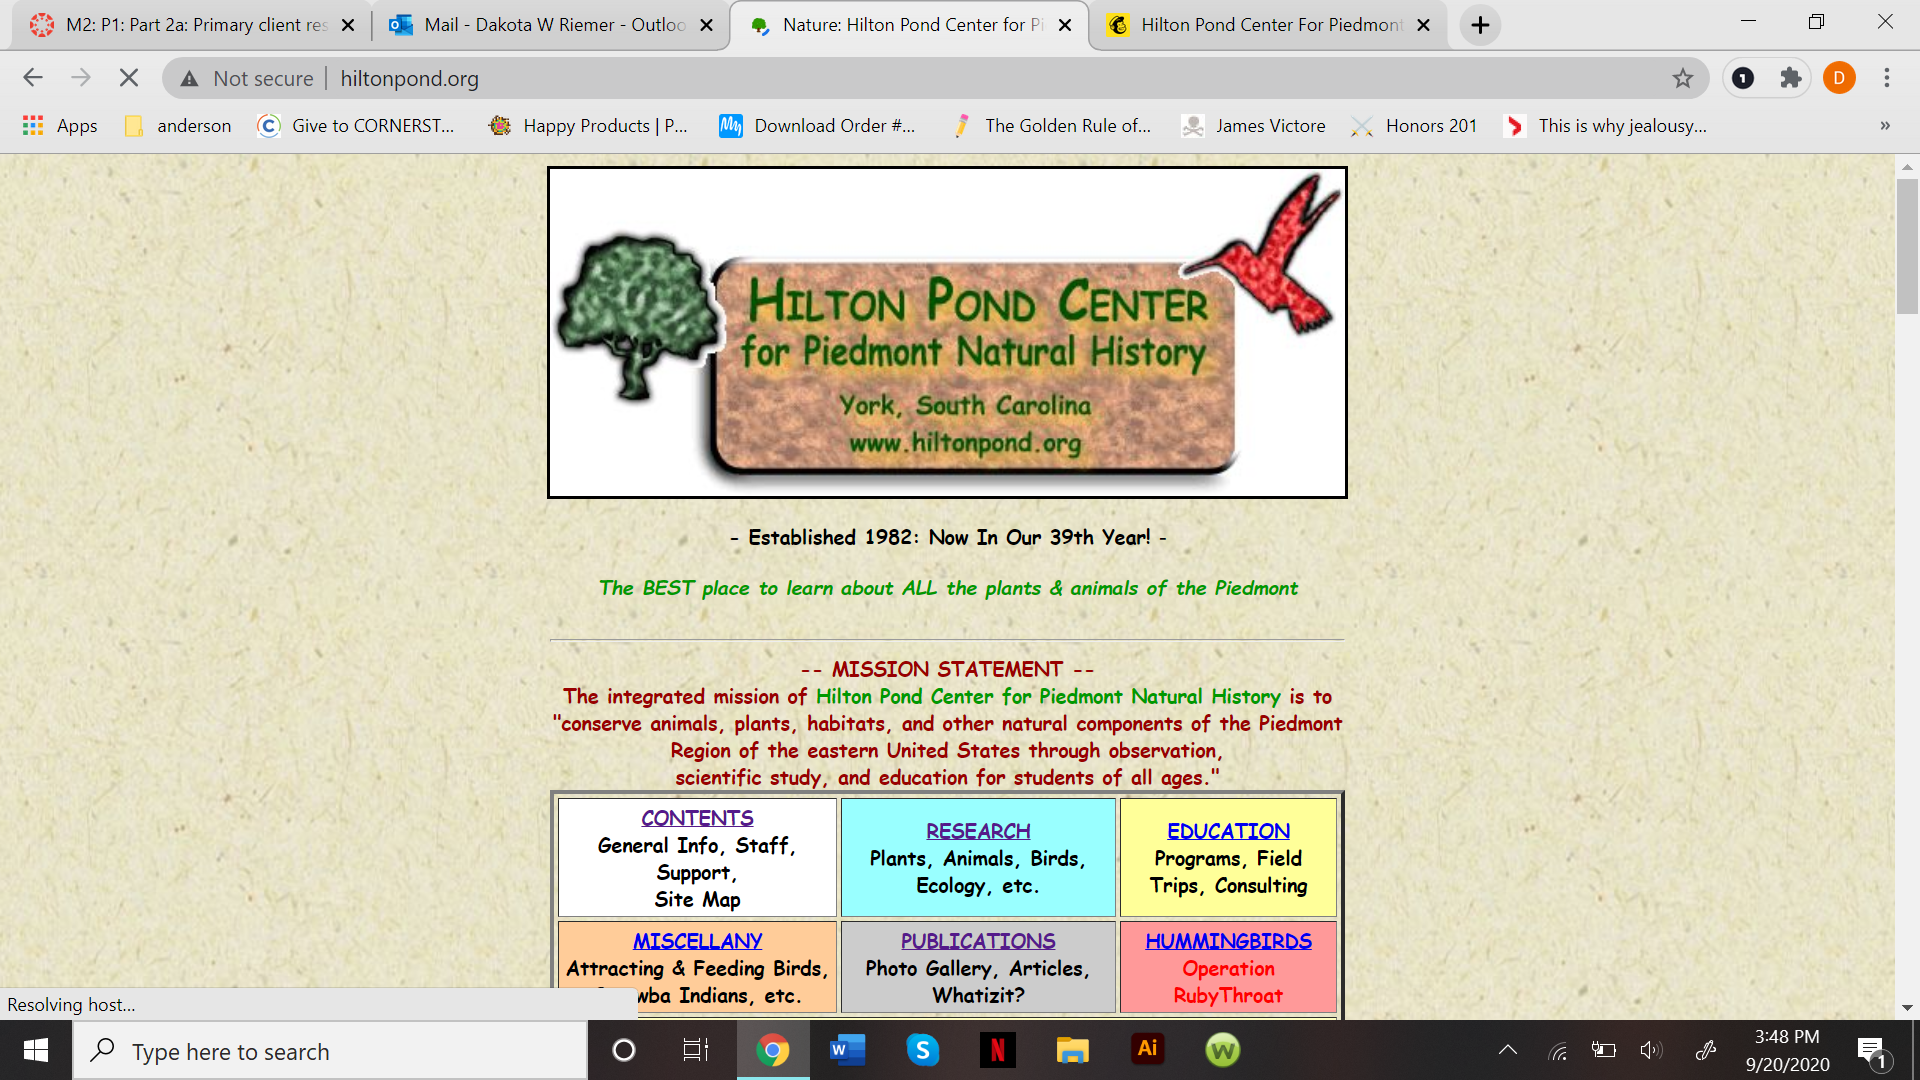
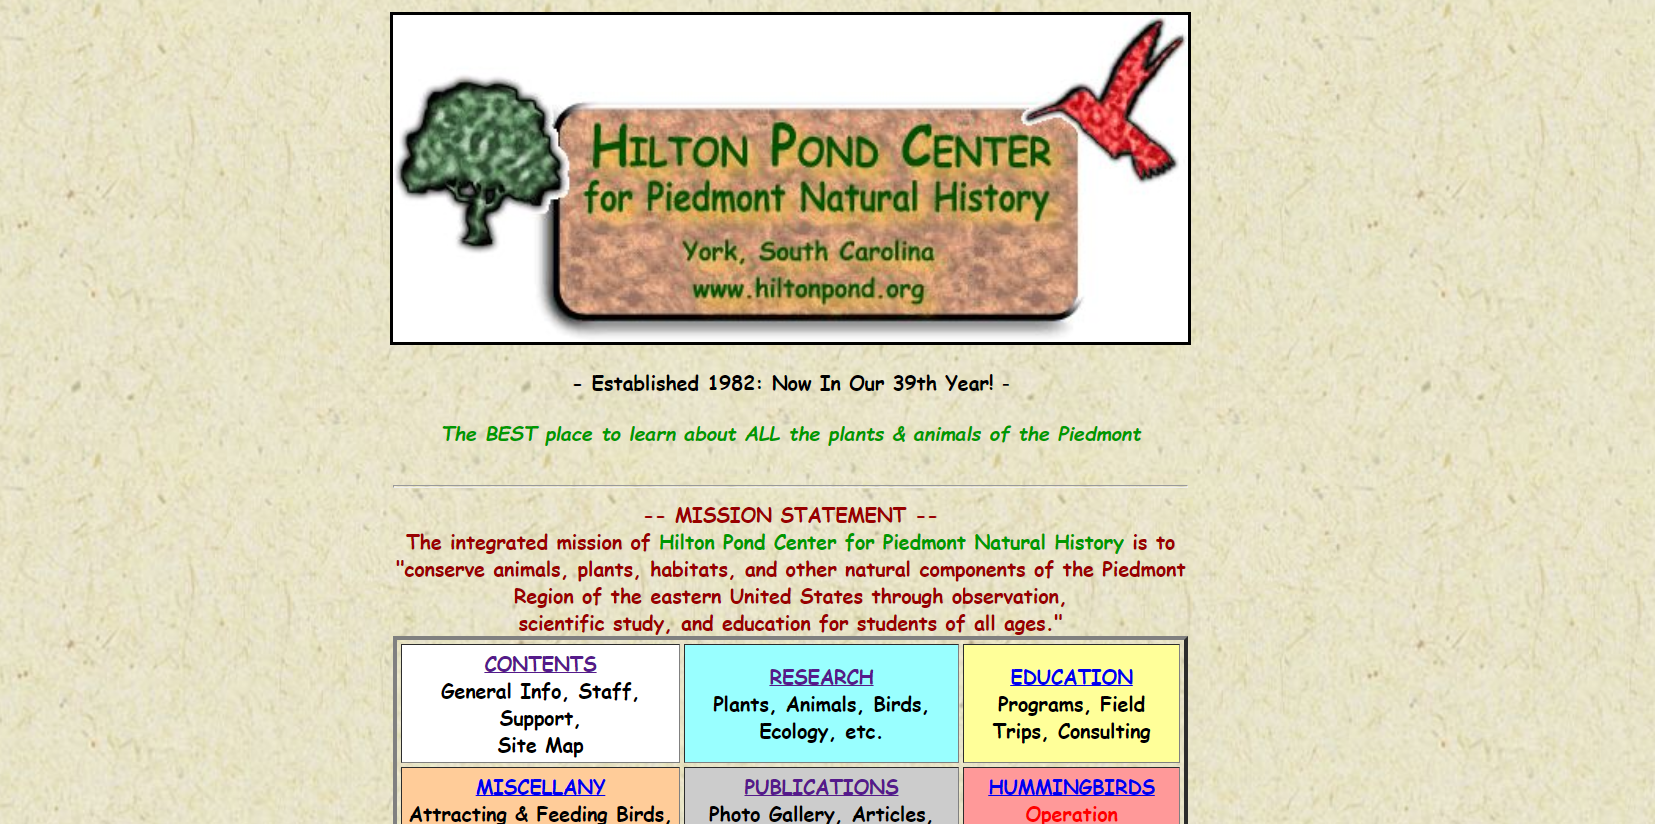
adjusting text and images commit

diff --git a/generic-page.html b/generic-page.html
@@ -21,7 +21,7 @@
 			<nav id="menu">
 				<ul class="links">
 					<li><a href="index.html">Home</a></li>
-					<li><a href="generic-page.html">Generic Page</a></li>
+					<li><a href="generic-page.html">Research</a></li>
 					<li><a href="elements.html">Useful Elements</a></li>
 				</ul>
 			</nav>
@@ -30,7 +30,7 @@
 			<section id="main">
 				<div class="inner">
 					<div class="image fit">
-						<img src="images/pic11.jpg" alt="" />
+					<img height="450px" src ="images\homepage.png"/>
 					</div>
 					<header>
 						<h1>Research</h1>
@@ -38,11 +38,15 @@
 					</header>
 
 					<h2>Primary Reseach</h2>
-  				<img height="300px" src ="images\homepage.png"/>
+
 					<p>This is a screenshot of the homepage on the Hilton Pond website. I've included it in my research because it shows the logo, page background and
 						basic page layout for their entire website. Everything follows this form.
 					</p>
-			<img height="300px" src ="images\mainpage.png"/>
+
+					<h4>Left &amp; Right</h4>
+					<p><span class="image left"><img src="images\mainpage.png" alt="" /></span>This image is a screenshot of Hilton Pond Center's main page, just after the header information and navigation. It shows the important news for the week, current updates, and button for their weekly newsletter that points to a different box about humming birds. Everything commands attention and equal importance because everything is brightly colored or bolded in some way. This is pretty typically information one might find on a homepage, however it is very hard to visually sift through to find what you are looking for.</p>
+					<p><span class="image right"><img src="images/pic06.jpg" alt="" /></span>Fringilla nisl. Donec accumsan interdum nisi, quis tincidunt felis sagittis eget. tempus euismod. Vestibulum ante ipsum primis in faucibus vestibulum. Blandit adipiscing eu felis iaculis volutpat ac adipiscing accumsan eu faucibus. Integer ac pellentesque praesent tincidunt felis sagittis eget. tempus euismod. Vestibulum ante ipsum primis in faucibus vestibulum. Blandit adipiscing eu felis iaculis volutpat ac adipiscing accumsan eu faucibus. Integer ac pellentesque praesent. Donec accumsan interdum nisi, quis tincidunt felis sagittis eget. tempus euismod. Vestibulum ante ipsum primis in faucibus vestibulum. Blandit adipiscing eu felis iaculis volutpat ac adipiscing accumsan eu faucibus. Integer ac pellentesque praesent tincidunt felis sagittis eget. tempus euismod. Vestibulum ante ipsum primis in faucibus vestibulum. Blandit adipiscing eu felis iaculis volutpat ac adipiscing accumsan eu faucibus. Integer ac pellentesque praesent.</p>
+
 			<p> This is a screenshot from Hilton Pond's website, it shows what the main page looks like. They have a homepage that you are brought to first, and then
 				a seperate 'main page' that has some branding for their newsletter page.
 			</p>
